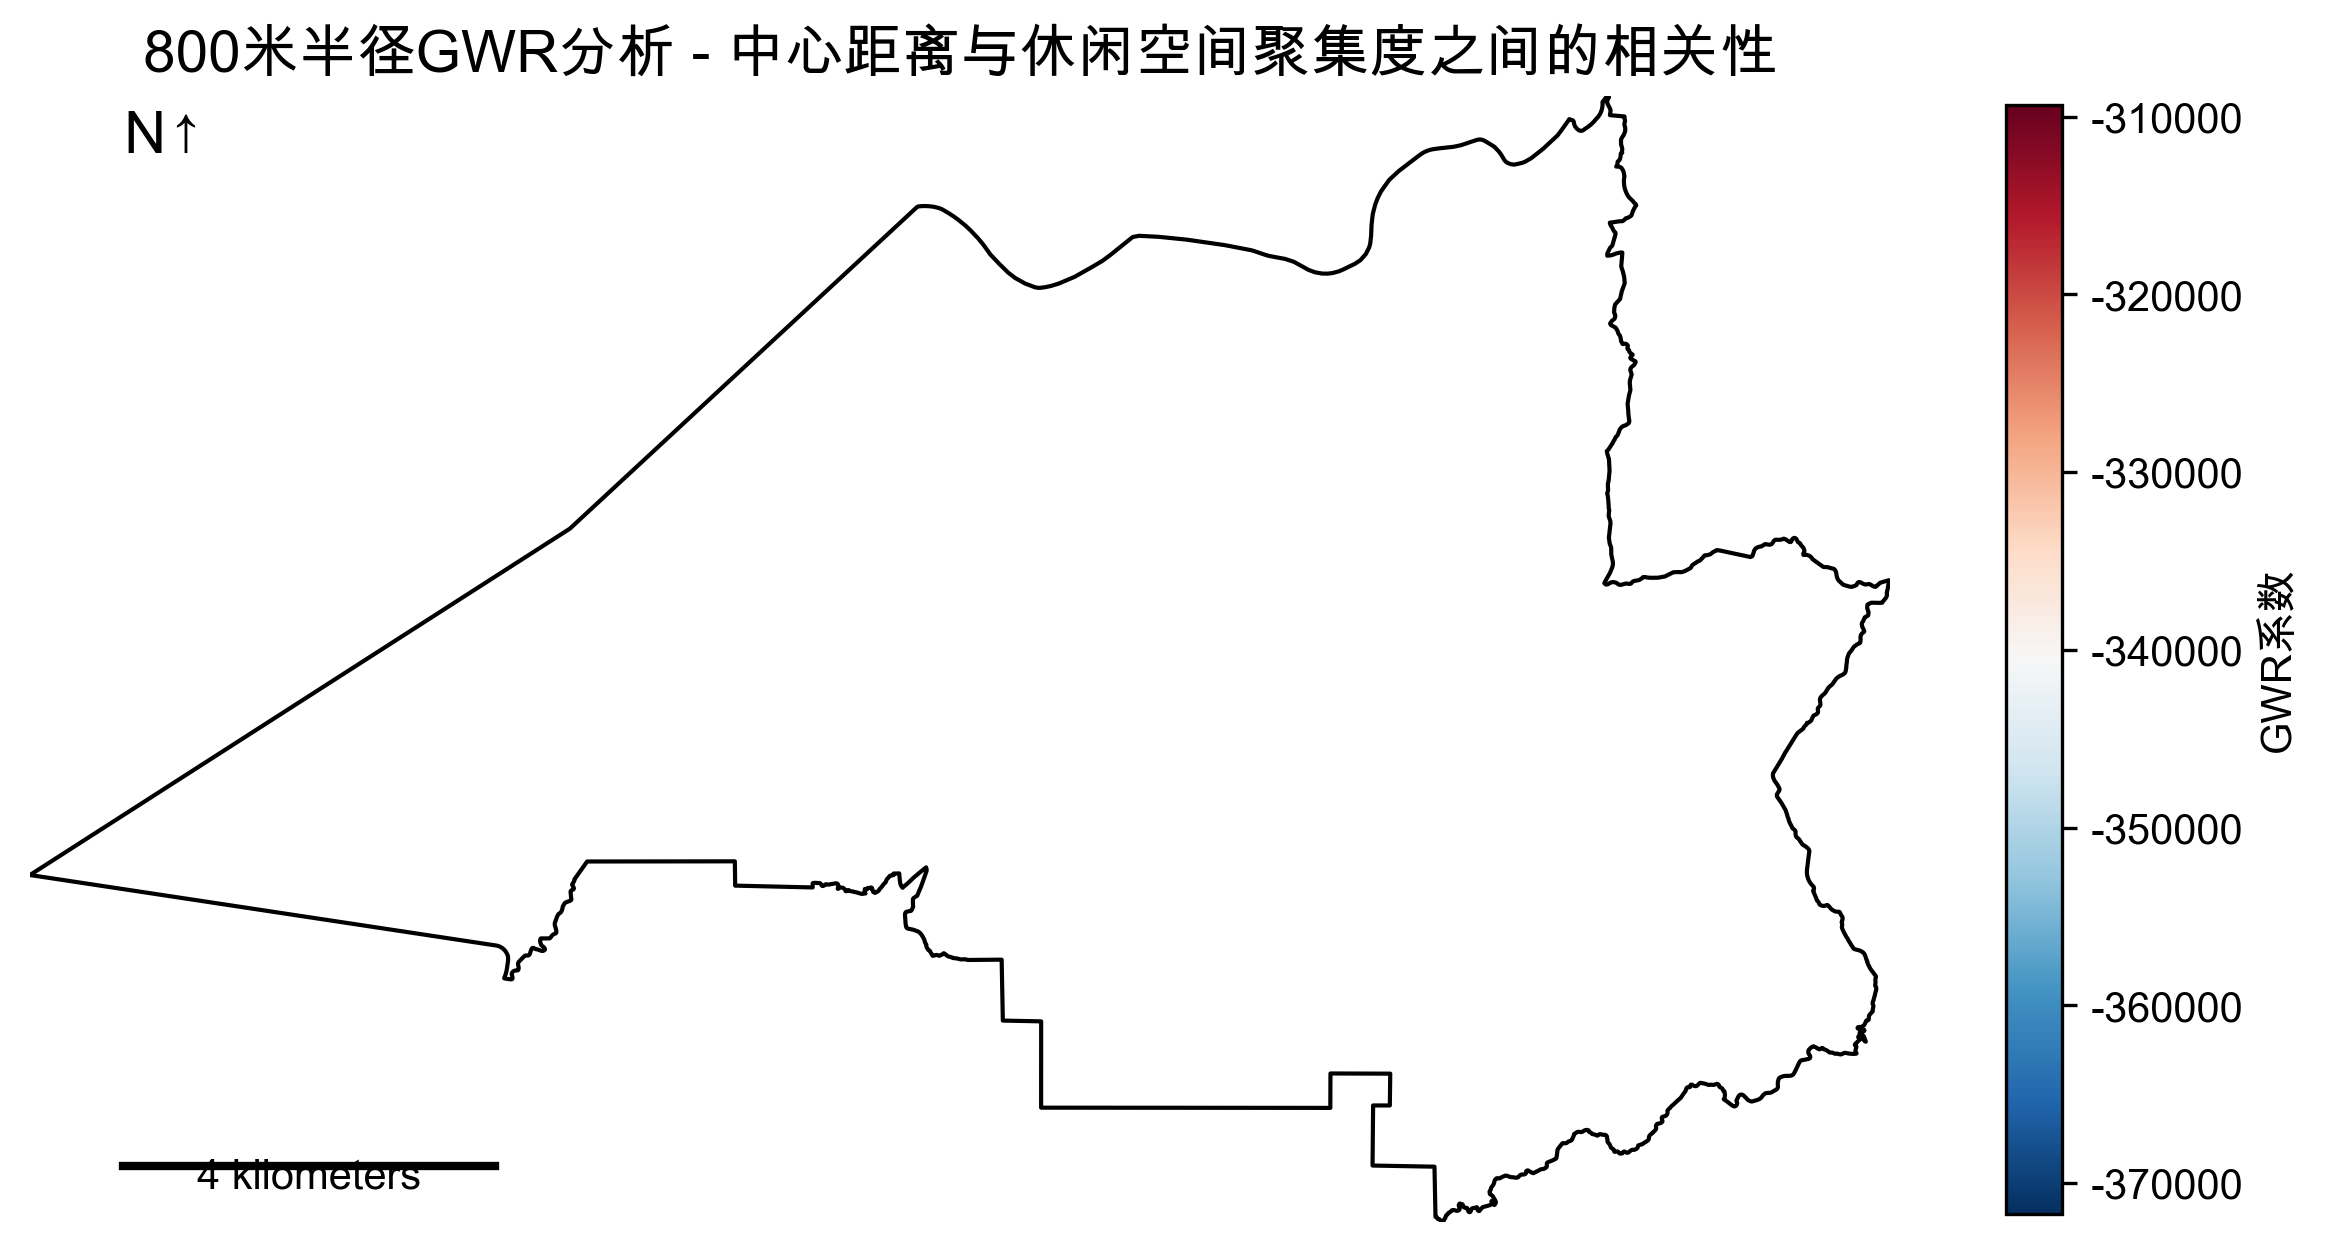
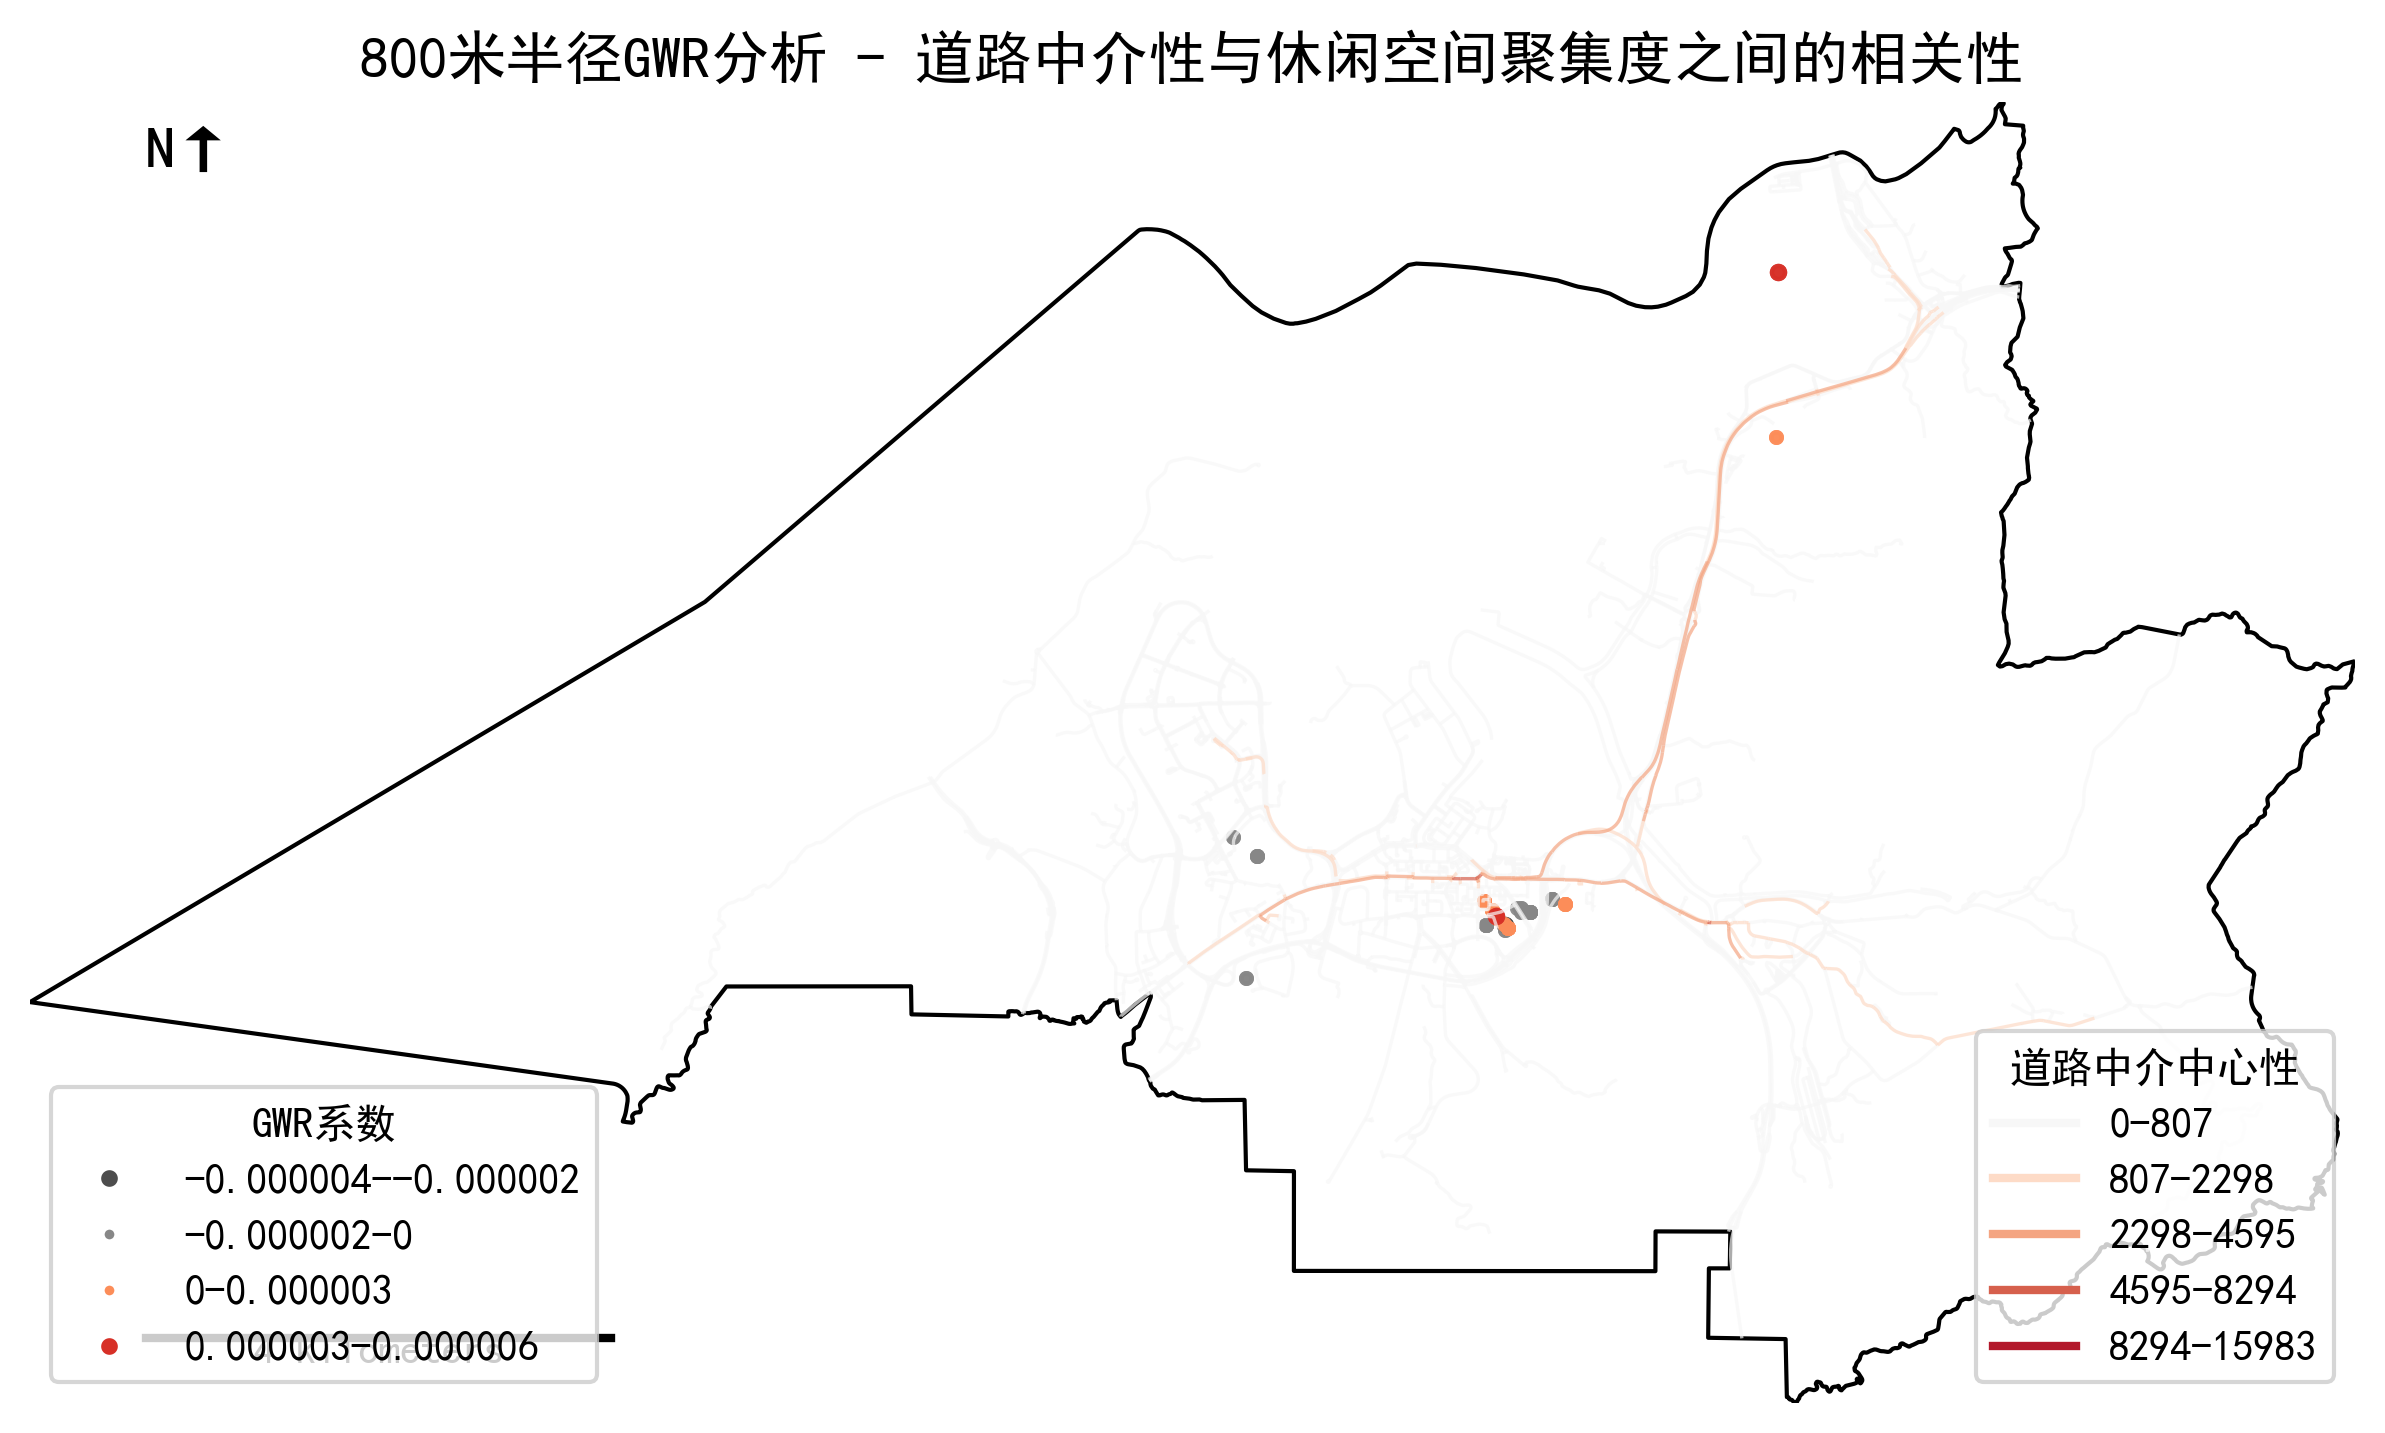
介中心性final

diff --git a/roadcenter.py b/roadcenter.py
@@ -19,7 +19,7 @@ ROAD_FILE = "data/yuanlangroad.shp"  # 道路数据
 BOUNDARY_FILE = "data/yuanlang.shp"  # 区域边界
 OUTPUT_FILE = "gwr_analysis_map.png"
 
-def calculate_betweenness(roads_gdf, sample_ratio=0.001):
+def calculate_betweenness(roads_gdf, sample_ratio=0.0001):
   """计算道路的中介中心性，使用采样方法提高效率"""
   print("计算道路中介中心性...")
   
@@ -159,7 +159,7 @@ def perform_gwr_analysis():
     # 检查是否有BIA800字段
     if 'BIA800' not in roads.columns:
       print("道路数据中没有BIA800字段，计算中介中心性")
-      roads = calculate_betweenness(roads, sample_ratio=0.001)
+      roads = calculate_betweenness(roads, sample_ratio=0.0001)
   except Exception as e:
     print(f"道路数据加载失败: {e}")
     return None
@@ -254,10 +254,10 @@ def perform_gwr_analysis():
   )
   
   # 使用不同颜色绘制道路
-  colors = ['#f7f7f7', '#fddbc7', '#f4a582', '#d6604d', '#b2182b']
+  road_colors = ['#f7f7f7', '#fddbc7', '#f4a582', '#d6604d', '#b2182b']
   for i, cat in enumerate(roads['BIA800_cat'].cat.categories):
     cat_roads = roads[roads['BIA800_cat'] == cat]
-    cat_roads.plot(ax=ax, color=colors[i], linewidth=0.8, alpha=0.7)
+    cat_roads.plot(ax=ax, color=road_colors[i], linewidth=0.8, alpha=0.7)
 
   # 绘制GWR系数（根据p值筛选显著区域）
   # 只显示p值小于0.05的点
@@ -271,13 +271,19 @@ def perform_gwr_analysis():
     significant['coeff_cat'] = pd.cut(significant['gwr_coeff'], bins=bins, labels=labels)
     
     # 使用不同颜色和大小绘制点
-    colors = ['#4d4d4d', '#878787', '#fc8d59', '#d73027']
+    point_colors = ['#4d4d4d', '#878787', '#fc8d59', '#d73027']
     sizes = [300, 200, 200, 300]
+    
+    # 创建图例的句柄和标签
+    legend_handles = []
+    legend_labels = []
     
     for i, cat in enumerate(labels):
       cat_points = significant[significant['coeff_cat'] == cat]
       if len(cat_points) > 0:
-        cat_points.plot(ax=ax, color=colors[i], markersize=sizes[i], alpha=0.7)
+        scatter = cat_points.plot(ax=ax, color=point_colors[i], markersize=sizes[i]/30, alpha=0.7)
+        legend_handles.append(plt.Line2D([0], [0], marker='o', color='w', markerfacecolor=point_colors[i], markersize=sizes[i]/60))
+        legend_labels.append(cat)
   else:
     print("没有显著的GWR系数（p<0.05），显示所有点")
     joined.plot(
@@ -285,6 +291,36 @@ def perform_gwr_analysis():
       markersize=30, alpha=0.7,
       vmin=-0.000004, vmax=0.000006,
       legend=True, legend_kwds={'label': "GWR系数", 'shrink': 0.6}
+    )
+  
+  # 创建道路中介中心性的图例
+  road_legend_handles = []
+  road_legend_labels = []
+  for i, cat in enumerate(roads['BIA800_cat'].cat.categories):
+    road_legend_handles.append(plt.Line2D([0], [0], color=road_colors[i], lw=2))
+    road_legend_labels.append(cat)
+  
+  # 添加道路中介中心性图例
+  road_legend = ax.legend(
+    road_legend_handles, 
+    road_legend_labels,
+    title='道路中介中心性',
+    loc='lower right',
+    frameon=True
+  )
+  
+  # 如果有显著点，添加GWR系数图例
+  if len(significant) > 0:
+    # 将第一个图例添加到图中，并存储引用
+    ax.add_artist(road_legend)
+    
+    # 添加GWR系数图例
+    ax.legend(
+      legend_handles, 
+      legend_labels,
+      title='GWR系数',
+      loc='lower left',
+      frameon=True
     )
 
   # 添加北向指示
